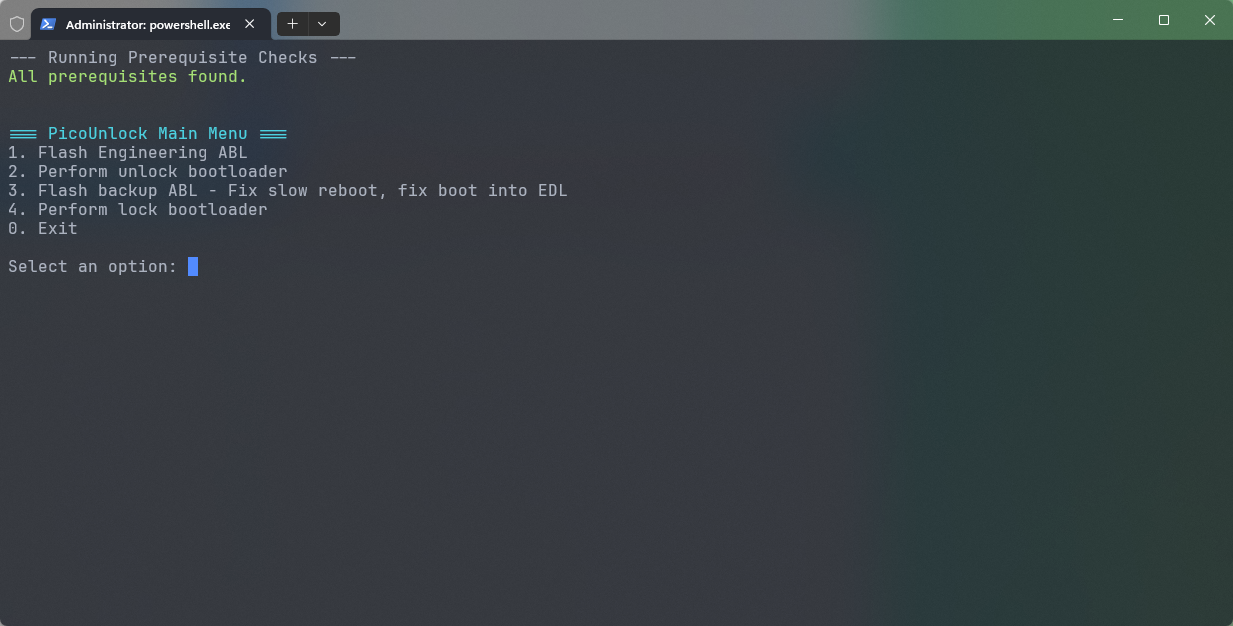
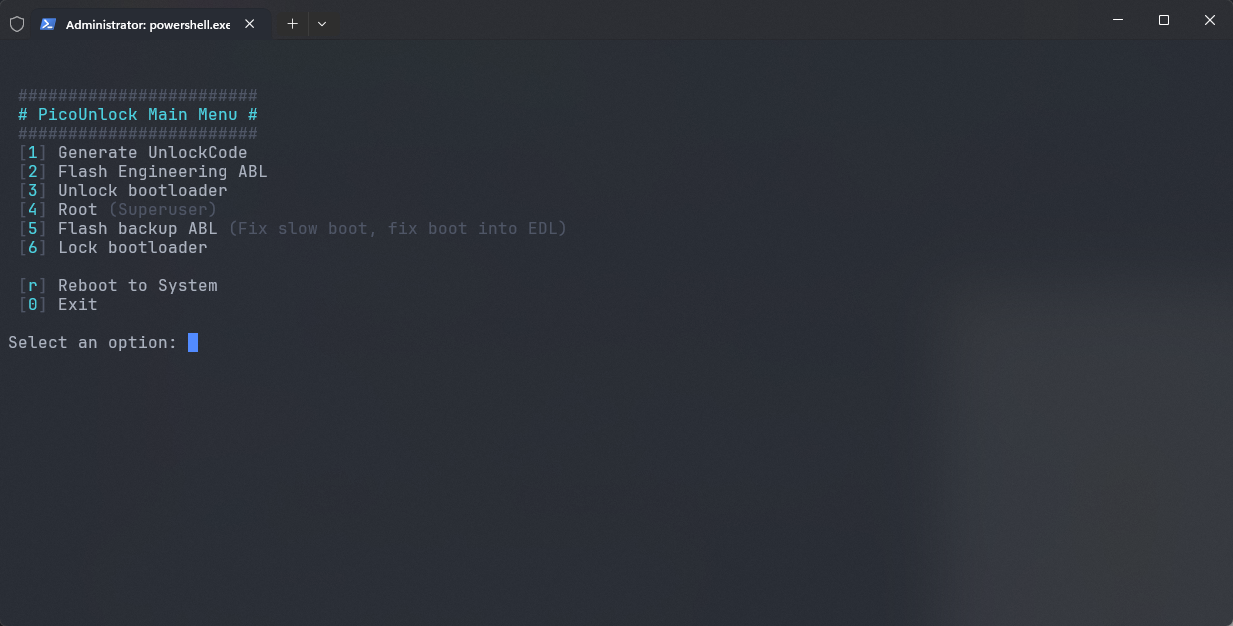
doc: readme

Changed region(s): [[0.0, 0.0, 1.0, 0.4856], [0.0, 0.5463, 0.1849, 0.5767], [0.339, 0.2732, 0.4623, 0.3339]]

diff --git a/README.md b/README.md
@@ -1,2 +1,88 @@
-# Unlock your Pico 3/4 bootloader
-<img width="540" height="960" alt="unlocked" src="./src/unlocked.jpg" />
+# Pico 3/4 Bootloader Unlock & Root Tool
+
+<img height="300" alt="unlocked" src="./src/unlocked.jpg" /> <img height="300" alt="unlocked" src="./src/mainmenu.png" />
+
+This repository contains a comprehensive set of tools and scripts to unlock the bootloader and root the **Pico 4** (confirmed), **Pico 4 Pro** (confirmed), and **Pico Neo 3** VR headsets.
+
+> [!CAUTION]
+> **!!! DO A BACKUP FIRST WITH THE DOWNGRADER !!!**
+> It is highly recommended to use the **Downgrader tool** to perform a **full LUN backup via EDL** before starting.
+> Unlocking the bootloader **WILL WIPE ALL USER DATA**. Perform a backup before proceeding.
+
+## Backup
+Before starting the unlock process, it is **strongly advised** to use the **Downgrader tool** to create a full backup of all LUNs via EDL. This ensures you have a recovery path in case anything goes wrong during the partition flashing process.
+
+## Status
+*   **Pico 4**: Confirmed working.
+*   **Pico 4 Pro**: Confirmed working.
+*   **Pico Neo 3**: Not confirmed yet, but should work the same (uses ABL and devinfo from P3 firmware).
+
+## Prerequisites
+*   **Windows PC**: The automation script is written in PowerShell.
+*   **Python**: Required for the unlock code generation logic (`more-picohaxx.py`).
+*   **Qualcomm Drivers**: `QDLoader 9008` drivers. If not installed, use the provided script in `tools/qdl-driver/`.
+*   **Pico Device**: Pico 4, Pico 4 Pro, or Pico Neo 3 with **USB Debugging** enabled.
+*   **Backup**: Use the **Downgrader tool** to perform a **full LUN backup** (all partitions) via EDL before starting.
+
+## ⚠ WARNING
+*   **Risk**: Flashing firmware carries inherent risks. While this method is tested, you proceed at your own risk.
+*   **Engineering ABL & Devinfo**: The process involves flashing early engineering files. **Your Pico will not boot after flashing these** until the unlock process is complete. On Pico 4, this may result in SELinux being set to permissive.
+
+## How It Works
+
+1.  **Get Chip ID**: Acquire your `serial_number` (Chip ID) via `adb` (from `/sys/devices/soc0/serial_number`).
+2.  **Generate Token**: Use `more-picohaxx.py` to generate your personal unlock command.
+3.  **Flash Engineering Files**: Flash the old `abl` and `devinfo` via EDL.
+    *   **Firehose Selection**: Choose the correct firehose based on your device hardware:
+        *   **Pico 4 / Pico Neo 3**: Select **DDR 4** (Standard firehose).
+        *   **Pico 4 Pro**: Select **DDR 5** (Lite firehose).
+    *   **Note**: The device will be in a non-bootable state after this step until the process is completed.
+4.  **Fastboot Unlock**: Issue the generated command from the script, followed by:
+    *   `fastboot oem setenforce 0`
+    *   `fastboot flashing unlock`
+    *   `fastboot flashing unlock_critical`
+5.  **Reboot Bootloader**: Check the status. If it isn't unlocked, **repeat the steps**. This is expected behavior; don't be afraid to try again.
+
+## Rooting with Magisk
+
+The tool includes an automated workflow to root your device:
+1.  **Install Magisk APK**: The script installs `Magisk4Pico.apk` to your device.
+2.  **Patch Boot Image**: You will be guided to download your current firmware, extract `boot.img`, and patch it using the Magisk app on the headset.
+3.  **Flash Patched Image**: The script pulls the patched image back to your PC and flashes it via `fastboot`.
+
+## Troubleshooting & Tips
+
+### Unlock Persistence
+If `fastboot oem device-info` shows the device as locked after the first attempt, **repeat the unlock commands**. It is known that the unlock bits (written to protected RPMB storage) might not "stick" immediately.
+
+### Slow Boot or Automatic EDL Boot
+Using the engineering ABL can cause issues like slow boot times or the device unexpectedly entering EDL mode. To fix this:
+1.  **Unlock and Root** the device successfully first.
+2.  Use the **"Flash backup ABL"** option in the script menu. This restores your original `abl` partition.
+3.  Because the unlock state is stored in the **RPMB**, you will remain unlocked even with the original ABL.
+4.  **Note**: This will return SELinux to `Enforcing`. Use a Magisk module (like `selinux_permissive`) to maintain permissive mode if your setup requires it.
+
+### EDL Driver Installation
+If the device is not detected in EDL mode (Qualcomm 9008):
+*   Run the provided driver installation script: `.\tools\qdl-driver\install.ps1` as **Administrator**.
+*   This will trust the certificate and install the WinUSB driver for the EDL device.
+
+### USB Connectivity
+*   Use a high-quality USB-C cable.
+*   If EDL mode is unstable, try a **USB 2.0 port** or a USB 2.0 hub.
+*   Manual EDL entry: Hold **Vol Up + Vol Down + Power** from a powered-off state.
+
+## Key Components
+*   `picounlock.ps1`: The main automation script (PowerShell).
+*   `picounlock.bat`: A convenient wrapper to run the script with Administrator privileges.
+*   `more-picohaxx.py`: The core logic for deriving the unlock code from the device serial number.
+*   `devinfo`: Engineering partition data required for the bypass.
+*   `tools/`: Contains `adb`, `fastboot`, and `qdl.exe` (for EDL flashing).
+*   `Magisk4Pico.apk`: Included for rooting the device after unlocking.
+
+## Credits
+*   **@typlo**: For finding this bypass method and the previous root exploit.
+*   **Fallen Angel**: Fearless testing and validation.
+
+---
+*For more technical details on the bypass mechanism, refer to the comments in `more-picohaxx.py`.*
